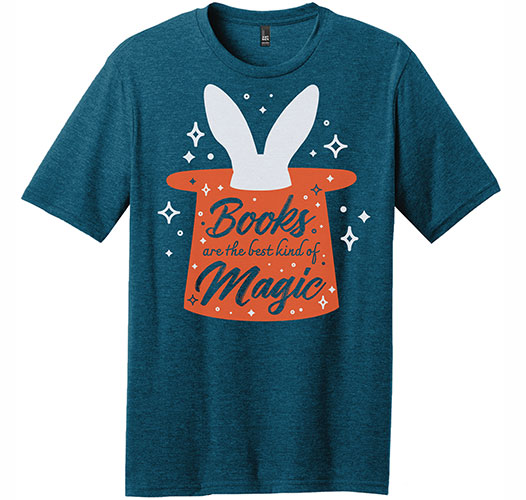
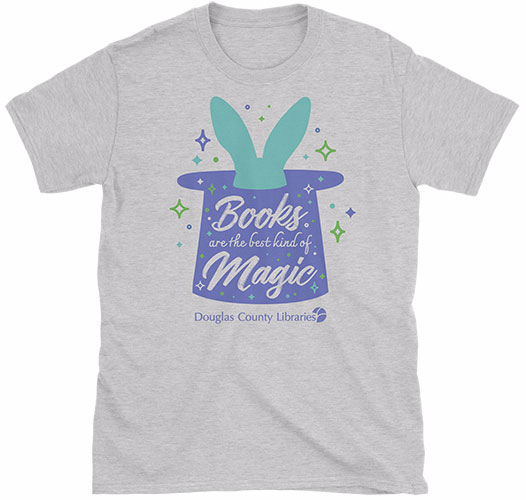
new shirt

diff --git a/srp/tees/index.html b/srp/tees/index.html
@@ -131,6 +131,224 @@ e.async=true;var t=document.getElementsByTagName("script")[0];t.parentNode.inser
 .details-link {
 	margin-left: 36px;
 }
+    
+/* form styles begin */   
+b {
+  font-weight: 300;
+}
+.jotform-form .form-all {
+  margin: 0 auto;
+  max-width: 500px;
+}
+
+.form-sub-label {
+	display: none;
+}
+.form-line {
+  margin-top: 0px;
+  margin-bottom: 0px;
+}
+.form-button-error {
+  color: #FF4E5D;
+  text-align: center;
+  display: block;
+  padding-top: 20px;
+}
+.form-line[data-payment="true"] .payment_footer.new_ui .total_area {
+  display: table;
+  padding: 15px 0 0 0;
+  min-width: 140px;
+  float: right;
+  box-sizing: border-box;
+}
+.form-payment-total {
+  font-size: 20px;
+  border-top: 1px solid #ddd;
+  padding-top: 10px;
+}
+.form-line[data-payment="true"] .payment_footer.new_ui .total_area * {
+  padding: 0;
+  margin: 0;
+  box-sizing: border-box;
+  /* line-height: 16px; */
+  font-size: 20px;
+  font-weight: 300;
+}
+.form-line[data-payment="true"] .form-product-item .form-product-container .form-product-name {
+  display: block;
+  padding-top: 0px;
+  /* padding-right: 116px; */
+  font-weight: 300;
+  font-size: 20px;
+}
+.form-line[data-payment="true"] .p_item_separator {
+  border-top-width: 1px;
+  border-top-style: solid;
+  opacity: 1;
+  margin: 5px 0;
+}
+.form-line[data-payment="true"] .payment_footer.new_ui {
+  width: 100%;
+  overflow: hidden;
+  padding: 8px 0 !important;
+}
+.form-line[data-payment="true"] .form-product-item .form-product-container .form-product-description {
+  font-size: 14px;
+  opacity: 1;
+  font-weight: 300;
+}
+.form-line[data-payment="true"] .form-product-item .p_checkbox .checked {
+  border: 1px solid #00758c;
+  background-color: #00758c;
+}
+.form-line[data-payment="true"] .form-product-item .form-product-container .form-product-details {
+  display: none;
+}
+.form-line[data-payment="true"] .form-product-item.new_ui.p_selected, .form-line[data-payment="true"] .form-product-item.new_ui.hover-product-item:hover {
+  background: #fff;
+  background-color: #fff;
+}
+.hover-product-item:hover {
+  background: #fff;
+}
+.form-line-error div.form-error-message {
+  display: none;
+}
+.form-label {
+  font-weight: 300;
+  font-size: 16px;
+}
+.form-checkbox {
+  display: none;
+}
+select, input {
+  display: block;
+  padding: 10px 18px;
+  font-size: 16px;
+  line-height: 1.42857143;
+  color: #333333;
+  background-color: #ffffff;
+  background-image: none;
+  border: 1px solid #cccccc;
+  border-radius: 0;
+  -webkit-box-shadow: inset 0 1px 1px rgba(0, 0, 0, 0.075);
+  box-shadow: inset 0 1px 1px rgba(0, 0, 0, 0.075);
+  -webkit-transition: border-color ease-in-out .15s, -webkit-box-shadow ease-in-out .15s;
+  -o-transition: border-color ease-in-out .15s, box-shadow ease-in-out .15s;
+  transition: border-color ease-in-out .15s, box-shadow ease-in-out .15s;
+}
+select {
+  height: 43px;
+}
+.form-line-active input:focus, .form-line-active textarea:focus {
+  border: none;
+  box-shadow: none;
+}
+.form-all .qq-upload-button, .form-all .qq-upload-button, .form-all .form-submit-button, .form-all .form-submit-reset, .form-all .form-submit-print {
+  font-size: 16px;
+  border-radius: 0;
+  text-transform: uppercase;
+  font-weight: 400;
+  background-color: #4e3b59;
+  border: 0;
+  padding: 15px 30px;
+  margin-top: 30px;
+  -webkit-box-shadow: 0px 3px 3px -3px rgba(0, 0, 0, 0.75);
+  -moz-box-shadow: 0px 3px 3px -3px rgba(0, 0, 0, 0.75);
+  box-shadow: 0px 3px 3px -3px rgba(0, 0, 0, 0.75);
+}
+.form-all .qq-upload-button:hover, .form-all .qq-upload-button:hover, .form-all .form-submit-button:hover, .form-all .form-submit-reset:hover, .form-all .form-submit-print:hover {
+  background-color: #65577b;
+  border: 0;
+  -webkit-box-shadow: rgba(0, 0, 0, 0.3) 0 4px 8px 0;
+  -moz-box-shadow: rgba(0, 0, 0, 0.3) 0 4px 8px 0;
+  box-shadow: rgba(0, 0, 0, 0.3) 0 4px 8px 0;
+  -webkit-transition: all .4s ease;
+  -moz-transition: all .4s ease-out;
+  -ms-transition: all .4s ease-out;
+  -o-transition: all .4s ease-out;
+  transition: all .4s ease-out;
+  opacity: 1;
+  cursor: pointer;
+}
+.form-product-item .form-sub-label {
+  display: inline;
+  height: 25px;
+  vertical-align: top;
+  margin-right: 6px;
+  line-height: 24px;
+  font-size: 14px;
+  font-weight: 400;
+  text-transform: uppercase;
+}
+.form-product-item > .form-product-item-detail {
+  position: static;
+  float: left;
+  height: auto !important;
+  width: 100%;
+}
+.form-product-item .form-dropdown {
+  height: 35px;
+  padding: 2px;
+}
+.form-sub-label {
+  color: #333;
+}
+.form-product-child-label {
+  font-weight: normal;
+  word-wrap: break-word;
+  font-size: 18px !important;
+}
+.form-dropdown {
+  padding: 5px;
+  font-size: 16px;
+}
+.form-textbox {
+  height: 43px;
+  color: #333333;
+  background-color: #ffffff;
+  background-image: none;
+  border: 1px solid #cccccc;
+  border-radius: 0;
+  -webkit-box-shadow: inset 0 1px 1px rgba(0, 0, 0, 0.075);
+  box-shadow: inset 0 1px 1px rgba(0, 0, 0, 0.075);
+  -webkit-transition: border-color ease-in-out .15s, -webkit-box-shadow ease-in-out .15s;
+  -o-transition: border-color ease-in-out .15s, box-shadow ease-in-out .15s;
+  transition: border-color ease-in-out .15s, box-shadow ease-in-out .15s;
+}
+#input_2 {
+  width: 200px !important;
+  margin-top: 30px !important;
+}
+.form-line[data-payment="true"] .form-product-item.just_sold_out_product, .form-line[data-payment="true"] .form-product-item.not_enough_stock_product {
+	background-color: #fff;
+}
+.form-line[data-payment="true"] .form-product-item.not_enough_stock_product .payment-badge {
+	background-color: #fff;
+	background-image: none;
+	background-size: inherit;
+	background-position: inherit;
+	background-repeat: no-repeat;
+	font-size: 16px;
+	padding: 0;
+	border-radius: 2px;
+	color: #ff3200;
+	position: relative;
+}
+@media (min-width: 200px) {
+  .jotform-form .form-all {
+    margin: 0 auto;
+    width: 100%;
+  }
+  .form-line[data-payment="true"] div[data-wrapper-react="true"] .form-product-item.new_ui .form-product-details {
+    color: #333;
+  }
+  [data-type="control_fullname"] .form-sub-label-container {
+    width: 100%;
+    margin-bottom: 5px;
+  }
+}
+/* form styles end */     
 </style>
 <!-- InstanceEndEditable -->
 </head>
@@ -335,7 +553,7 @@ height="0" width="0" style="display:none;visibility:hidden"></iframe>
         </div>
         <div class="tee-item two">
           <ul class="list-unstyled thumbnails">
-            <li> <a class="selected-tee null"> <img src="bam-thumb.jpg" alt="" />Deep Turquoise Fleck</a> 
+            <li> <a class="selected-tee null"> <img src="bam-thumb.jpg" alt="" />Heather Ash</a> 
               <!--<li>
               <div><a href="#" data-toggle="modal" data-target="#gctrmodal" class="details-link text-uppercase font-weight-400">Details &amp; Sizing</a></div>
             </li>--> 
